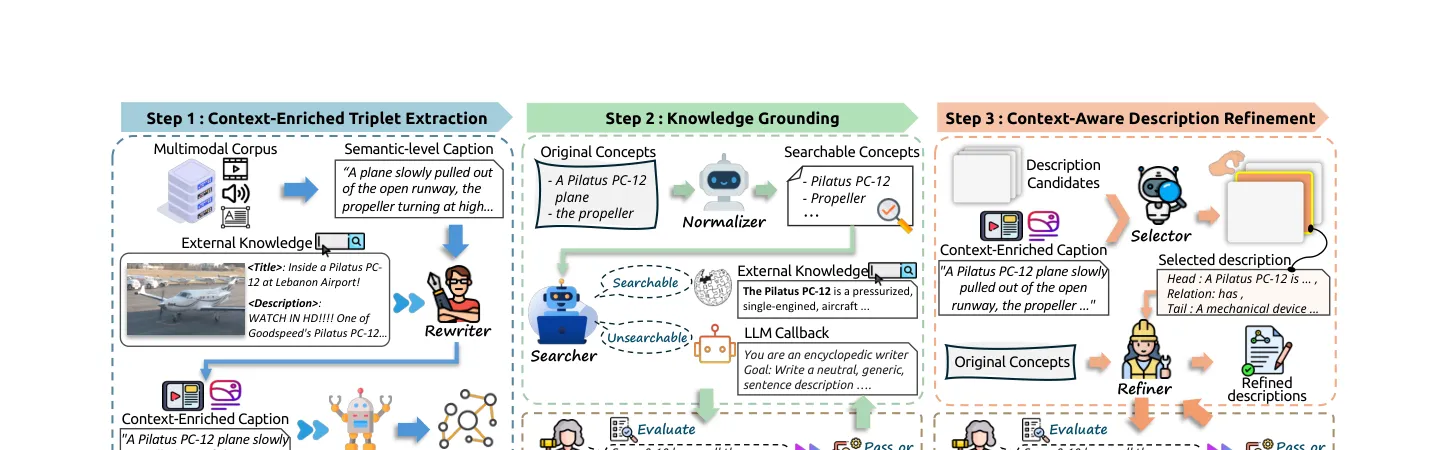
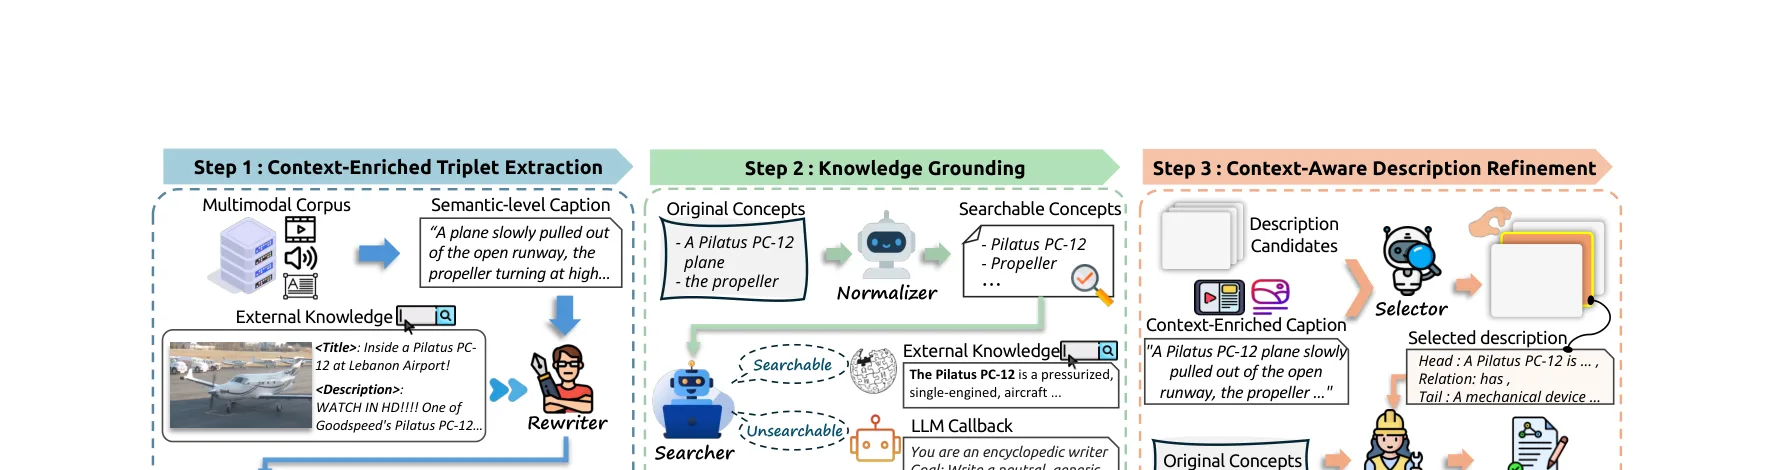
Fix M3KG-RAG note: re-crop figures, remove text-only fig4, update hero

diff --git a/notes-data.js b/notes-data.js
@@ -16,7 +16,7 @@ const NOTES = [
       "MLLM"
     ],
     "summary": "M3KG-RAG 构建多跳多模态知识图谱（M3KG），通过模态级检索（Modality-Wise Retrieval）消除跨模态 embedding gap，再经 GRASP（Grounded Retrieval And Selective Pruning）利用视觉/音频 grounding 模型和 LLM filter 逐级剪枝，仅保留与 query 相关且对回答有用的子图，在 Audio/Video/Audio-Visual QA 三个 benchmark 上全面超越现有 MMKG-RAG 方法。",
-    "hero": "assets/papers/m3kg-rag/fig3_framework.webp",
+    "hero": "assets/papers/m3kg-rag/fig2_pipeline.webp",
     "content": "## 一句话总结\nM3KG-RAG 的核心思路是：**先用多 agent 管线从多模态语料中构建多跳知识图谱（M3KG），然后在检索阶段按 query 的模态做同模态 nearest-neighbor search 消除 modality gap，最后用 GRASP 通过视觉/音频 grounding + LLM filter 三重剪枝，只留下 query-aligned 且 answer-supporting 的子图送入 MLLM**。在 GPT-4o 上也能带来显著提升，说明即使模型已有丰富内置知识，外部多跳结构化证据仍然有不可替代的价值。\n\n<div class=\"metric-grid\">\n  <div class=\"metric\"><strong>60.77 M.J.</strong><span>Qwen2.5-Omni + M3KG-RAG 在 AudioCaps-QA 上的得分，比 VAT-KG 高 9.5 分</span></div>\n  <div class=\"metric\"><strong>44.67 M.J.</strong><span>在 VALOR Audio-Visual QA 上的得分，比最强 baseline VAT-KG 高 9.2 分</span></div>\n  <div class=\"metric\"><strong>~7s/query</strong><span>完整 GRASP 管线的平均推理延迟（含 GDino + TAG + LLM filter）</span></div>\n  <div class=\"metric\"><strong>~40 GB VRAM</strong><span>完整系统 GPU 显存占用（H100 单卡可运行）</span></div>\n</div>\n\n## 论文信息\n- **标题**：M3KG-RAG: Multi-hop Multimodal Knowledge Graph-enhanced Retrieval-Augmented Generation\n- **作者**：Hyeongcheol Park, Jiyoung Seo, Jaewon Mun, Hogun Park, Wonmin Byeon, Sung June Kim, Hyeonsoo Im, JeungSub Lee, Sangpil Kim\n- **机构**：Korea University, Sungkyunkwan University, NVIDIA Research, Hanwha Systems\n- **版本**：arXiv 2512.20136 (Dec 2025, v3 Apr 2026)\n- **链接**：[arXiv](https://arxiv.org/abs/2512.20136) · [PDF](https://arxiv.org/pdf/2512.20136) · [项目主页](https://kuai-lab.github.io/cvpr2026m3kgrag/)\n\n## 背景：为什么现有多模态 RAG 在音视频场景下效果有限？\n\n多模态 RAG 将 MLLM 与外部知识源连接，但在 **audio-visual** 场景下面临两个核心瓶颈：\n\n1. **模态覆盖与多跳连通性不足**：现有 MMKG（如 VTKG、M2ConceptBase）主要覆盖 image-text，对 audio-visual 的时序和因果推理支持有限。VAT-KG 虽然纳入了 audio-visual 流，但构建的是 **concept-level 单跳图**，难以捕捉跨模态的时序依赖关系。\n\n2. **共享 embedding 空间的 modality gap**：多模态编码器（如 InternVL2、CLAP）的共享 embedding 空间中，不同模态之间的距离校准不一致。用 video query 直接搜索 text embedding 索引，或用 audio query 搜索 visual items，往往会检索到 off-topic 的邻居。**similarity-only 检索无法过滤掉与问题无关的冗余知识**。\n\n<figure class=\"figure\">\n  <img src=\"assets/papers/m3kg-rag/fig1_comparison.webp\" alt=\"M3KG-RAG 与现有方法对比\" loading=\"lazy\" />\n  <figcaption>图 1：(a) 共享 embedding 空间搜索与 audio-visual query 不对齐，检索到错误证据；(b) 单跳图提供 noisy、fragmentary 的上下文，无法改善回答；(c) M3KG-RAG 通过模态级多跳检索获取 answer-supporting 的上下文，产出忠实回答。</figcaption>\n</figure>\n\n## 方法：M3KG-RAG 如何实现多跳多模态知识图谱增强？\n\n### 1. M3KG 构建：多 Agent 管线\n\nM3KG 的构建由一个轻量级多 agent 管线完成，包含 7 种专用 LLM agent（rewriter、extractor、normalizer、searcher、selector、refiner、inspector），全部基于 Qwen3-8B 实现。管线分三步：\n\n**Step 1: Context-Enriched Triplet Extraction**\n- **Rewriter** 将语义泛化的原始 caption 重写为 knowledge-intensive caption，融入 YouTube title/description 等外部知识。\n- **Extractor** 从重写后的 caption 中抽取结构化三元组 \\((h, r, t)\\)。由于 caption 已经是 knowledge-intensive 的，抽取的三元组往往包含长尾实体和非常见概念。\n\n**Step 2: Knowledge Grounding**\n- **Normalizer** 将实体标准化为可搜索的 canonical concept（去掉修饰词、统一为单数名词短语）。\n- **Searcher** 查询 Wikipedia/Wiktionary 获取候选描述；对查不到的实体，调用 LLM callback 生成描述。\n\n**Step 3: Context-Aware Description Refinement**\n- **Selector** 从多个候选描述中选择最契合当前上下文语境的描述。\n- **Refiner** 将选中的描述从 canonical concept 适配回原始实体的表述方式。\n\n**Self-Reflection Loop**：Inspector agent 对每个描述打分（0-10），低于 7 分的退回重新生成，最多 3 次迭代，仍不达标的丢弃。\n\n最终构建的 M3KG 为：\n\\[\nG = \\{E, R, \\mathcal{T}, \\hat{D}, A, V, L\\}\n\\]\n其中每个三元组都至少链接到一个 audio 或 visual item，保证全图覆盖性（full graph coverage）。\n\n<figure class=\"figure\">\n  <img src=\"assets/papers/m3kg-rag/fig2_pipeline.webp\" alt=\"M3KG 构建管线\" loading=\"lazy\" />\n  <figcaption>图 2：M3KG 构建管线概览。三步流程 + Self-Reflection Loop，从多模态语料中构建包含 context-enriched triplet 和 refined description 的多跳知识图谱。</figcaption>\n</figure>\n\n### 2. Modality-Wise Retrieval：消除 Modality Gap\n\n核心思想：**只在 query 的同模态空间内做 nearest-neighbor search**，避免跨模态距离校准不准导致的 off-topic 检索。\n\n- 用模态基础模型（InternVL2 处理 video，CLAP 处理 audio）计算 query embedding。\n- 在 M3KG 的 audio/visual items 上构建 FAISS 索引，用 L2 距离检索 top-\\(k\\) 最近邻。\n- 通过距离阈值 \\(\\tau\\) 过滤掉过远的候选项。\n- 将选中的 items 通过链接 \\(L\\) 提升为对应的三元组子图 \\(G_{\\text{init}}\\)。\n\n### 3. GRASP：Grounded Retrieval And Selective Pruning\n\nGRASP 是论文的核心检索贡献，分两个阶段逐步剪枝：\n\n**阶段一：Multimodal Grounded Retrieval**\n\n利用 off-the-shelf 多模态 grounding 模型验证三元组中的实体是否真的出现在 query 的 audio/visual 流中：\n\n- **Visual Grounding**：用 GroundingDINO 在 query video 的 4 帧均匀采样上做检测，取最大置信度作为视觉存在分数：\n\\[\ns_v(e | q_v) = \\max_{f \\in F} \\Phi_v(e; f)\n\\]\n对三元组的 head 和 tail 实体分数求和，低于阈值 \\(\\eta_v\\) 的剪掉。\n\n- **Audio Grounding**：用 TAG（Text-to-Audio Grounding）模型，将三元组转为自然语言句子，测量其在 query audio 中的 grounding 强度：\n\\[\ns_a(t | q_a) = \\Phi_a(\\sigma(t); q_a)\n\\]\n低于阈值 \\(\\eta_a\\) 的剪掉。当 audio 和 visual 同时可用时，融合分数并应用阈值 \\(\\eta_{av}\\)。\n\n**阶段二：LLM-based Selective Pruning**\n\n轻量级 LLM（Qwen3-8B）对 grounded subgraph 中的三元组做 binary keep-or-drop 决策，采用 conservative 策略（uncertain 时倾向保留），去除对回答无用的知识。\n\n<figure class=\"figure\">\n  <img src=\"assets/papers/m3kg-rag/fig3_framework.webp\" alt=\"多模态 RAG 框架\" loading=\"lazy\" />\n  <figcaption>图 3：多模态 RAG 框架。(a) Modality-Wise Retrieval 在同模态空间内检索多跳三元组；(b) GRASP 通过 visual/audio grounding 验证实体存在性，再用 LLM filter 剪除无用知识，最终子图送入 MLLM。</figcaption>\n</figure>\n\n### 4. Graph-Augmented Generation\n\n最终检索到的子图 \\(G_{\\text{GRASP}}\\) 与多模态 query 拼接后送入 MLLM。对每个三元组 \\((h, r, t)\\)，包含关系 \\(r\\) 以及 head/tail 的 refined descriptions \\(\\langle h, d_h \\rangle\\) 和 \\(\\langle t, d_t \\rangle\\)：\n\n\\[\np_{\\text{aug}} = q \\;\\|\\; \\left( \\bigcup_{(h,r,t) \\in G_{\\text{GRASP}}} \\langle h, d_h \\rangle \\xrightarrow{r} \\langle t, d_t \\rangle \\right)\n\\]\n\n## 数据与评测\n\n**评测基准**：\n- **Audio QA**：AudioCaps-QA（基于 AudioSet 的 10 秒音频片段 + 人工标注 QA）\n- **Video QA**：VideoChatGPT benchmark（基于 ActivityNet 视频）\n- **Audio-Visual QA**：VALOR（需要同步 audio-visual 联合推理）\n\n**Base MLLMs**：VideoLLaMA2、Qwen2.5-Omni（开源）、GPT-4o（商业）\n\n**Baseline**：None（无外部知识）、Wikidata + naïve RAG、VTKG（image-text MMKG）、M2ConceptBase、VAT-KG（audio-visual MMKG）\n\n**M3KG 构建**：使用各 benchmark 的 training split 构建（AudioCaps + ActivityNet + VALOR-32K），不访问 QA 标注。\n\n**评估指标**：\n- **Model-as-Judge (M.J.)**：LLM judge 对回答打 0-5 分（映射到 0-100）\n- **Reference-Aware Win-Rate**：提供参考答案的 pairwise 比较，评估 Comprehensiveness / Diversity / Empowerment / Overall\n\n## 实验结果\n\n### 主实验：全 benchmark 对比\n\n<div class=\"table-wrap\">\n<table>\n<thead>\n<tr><th>MLLM</th><th>Method</th><th>AudioCaps-QA</th><th>VCGPT</th><th>VALOR</th></tr>\n</thead>\n<tbody>\n<tr><td rowspan=\"6\"><strong>VideoLLaMA2</strong></td><td>None</td><td>43.13</td><td>39.09</td><td>25.66</td></tr>\n<tr><td>Wikidata</td><td>43.58</td><td>38.58</td><td>26.43</td></tr>\n<tr><td>VTKG</td><td>43.02</td><td>38.88</td><td>25.92</td></tr>\n<tr><td>M2ConceptBase</td><td>42.19</td><td>39.31</td><td>25.93</td></tr>\n<tr><td>VAT-KG</td><td>44.60</td><td>39.42</td><td>28.30</td></tr>\n<tr><td><strong>M3KG-RAG</strong></td><td><strong>53.23</strong></td><td><strong>39.92</strong></td><td><strong>29.25</strong></td></tr>\n<tr><td rowspan=\"6\"><strong>Qwen2.5-Omni</strong></td><td>None</td><td>49.00</td><td>42.21</td><td>32.42</td></tr>\n<tr><td>Wikidata</td><td>49.78</td><td>40.82</td><td>30.28</td></tr>\n<tr><td>VTKG</td><td>48.95</td><td>42.96</td><td>32.70</td></tr>\n<tr><td>M2ConceptBase</td><td>49.78</td><td>42.78</td><td>32.31</td></tr>\n<tr><td>VAT-KG</td><td>51.30</td><td>43.50</td><td>35.44</td></tr>\n<tr><td><strong>M3KG-RAG</strong></td><td><strong>60.77</strong></td><td><strong>44.35</strong></td><td><strong>44.67</strong></td></tr>\n</tbody>\n</table>\n</div>\n\n**关键发现**：\n- **Audio QA 提升最显著**：Qwen2.5-Omni + M3KG-RAG 在 AudioCaps-QA 上比 VAT-KG 高 9.47 分，说明多跳 audio 知识对音频理解至关重要。\n- **Audio-Visual QA 差距最大**：VALOR 上比 VAT-KG 高 9.23 分（44.67 vs 35.44），需要联合 audio-visual 推理时，多跳证据的价值最大。\n- **Video QA 提升相对温和**：VCGPT 上仅提升 0.85 分，可能因为 video-only 任务的知识需求相对简单。\n- **GPT-4o 也受益**：即使商业模型已有丰富内置知识，M3KG-RAG 仍能在所有 benchmark 上带来一致提升。\n\n### GPT-4o 实验\n\n<div class=\"table-wrap\">\n<table>\n<thead>\n<tr><th>Method</th><th>AudioCaps-QA</th><th>VCGPT</th><th>VALOR</th></tr>\n</thead>\n<tbody>\n<tr><td>GPT-4o (None)</td><td>56.74</td><td>49.68</td><td>46.02</td></tr>\n<tr><td>GPT-4o + VAT-KG</td><td>57.70</td><td>51.49</td><td>55.86</td></tr>\n<tr><td><strong>GPT-4o + M3KG-RAG</strong></td><td><strong>59.17</strong></td><td><strong>53.05</strong></td><td><strong>56.53</strong></td></tr>\n</tbody>\n</table>\n</div>\n\n## Ablation：哪些设计最关键？\n\n### Modality-Wise Retrieval vs. GRASP\n\n<div class=\"table-wrap\">\n<table>\n<thead>\n<tr><th>Modality-Wise Retrieval</th><th>GRASP</th><th>M.J. (VALOR)</th></tr>\n</thead>\n<tbody>\n<tr><td>✗</td><td>✗</td><td>36.62</td></tr>\n<tr><td>✓</td><td>✗</td><td>40.91 (+4.29)</td></tr>\n<tr><td>✗</td><td>✓</td><td>36.96 (+0.34)</td></tr>\n<tr><td>✓</td><td>✓</td><td><strong>44.67 (+8.05)</strong></td></tr>\n</tbody>\n</table>\n</div>\n\n**核心结论**：两个组件高度互补——Modality-Wise Retrieval 提供模态对齐的候选子图，GRASP 在此基础上做细粒度剪枝。**单独使用 GRASP 几乎无效**（仅 +0.34），因为如果初始检索的子图本身就与 audio-visual query 不对齐（shared embedding space 的 modality gap），再怎么剪枝也无法挽救。\n\n### GRASP 组件逐步消融\n\n<div class=\"table-wrap\">\n<table>\n<thead>\n<tr><th>GRASP 组件</th><th>VRAM (GB)</th><th>Avg time/query (s)</th><th>M.J.</th></tr>\n</thead>\n<tbody>\n<tr><td>None</td><td>23.0</td><td>4.30</td><td>40.91</td></tr>\n<tr><td>+ GDino</td><td>23.7</td><td>5.75</td><td>41.35</td></tr>\n<tr><td>+ TAG</td><td>23.6</td><td>4.48</td><td>41.70</td></tr>\n<tr><td>+ GDino + TAG</td><td>24.2</td><td>6.02</td><td>42.96</td></tr>\n<tr><td><strong>+ GDino + TAG + LLM Filter</strong></td><td><strong>39.8</strong></td><td><strong>7.02</strong></td><td><strong>44.87</strong></td></tr>\n</tbody>\n</table>\n</div>\n\n每个 grounding 模块独立贡献约 0.4-0.8 分，组合后达到 42.96（audio 和 visual grounding 互补）。加上 LLM filter 后再提升 ~2 分，说明**语义级剪枝**（判断知识是否对回答有用）在 grounding 之上仍有显著价值。\n\n## 我的理解与启发\n\n1. **Modality gap 是多模态 RAG 中被低估的瓶颈**。论文的核心洞察之一是：与其在统一 embedding 空间里硬做跨模态检索，不如按 query 的模态分别在同模态空间内搜索。这个思路简单但有效，代价是需要在 MMKG 中显式存储 audio/visual items 及其 embedding。\n\n2. **多跳 KG 的价值在 audio-visual 联合推理时最突出**。从 ablation 看，VALOR（需要同时理解音频和视觉）上的提升远大于纯 Video QA。这说明当任务需要跨模态因果推理时，结构化的多跳证据链比碎片化的单跳知识更有用。\n\n3. **GRASP 的 grounding 思路值得借鉴**。用 GroundingDINO 和 TAG 这类专用 grounding 模型来验证「检索到的知识是否真的存在于 query 中」，是一个很好的 filtering 策略。这比单纯靠 similarity score 或 LLM 判断更可靠，因为 grounding 模型直接在像素/波形层面做验证。\n\n4. **8B LLM 作为 backbone 的 multi-agent 管线很实用**。整个 KG 构建管线都基于 Qwen3-8B，不需要大模型，降低了构建成本。Self-Reflection Loop 的 Inspector 设计保证了图质量。\n\n5. **即使 GPT-4o 级别的模型也能从外部结构化知识中受益**。这暗示了当前商业 MLLM 在 audio-visual 领域的知识仍有盲区，多跳 KG 提供了一种可解释、可更新的知识注入方式。\n\n## 局限与待观察点\n\n- **M3KG 的知识覆盖受限于构建语料**：长尾实体、罕见关系或特定领域的知识可能未被覆盖。论文使用 benchmark 的 training split 构建，实际应用需要更大规模的语料。\n- **检索阈值需要按 benchmark 单独调参**：\\(\\tau\\) 和 \\(\\eta\\) 在不同 benchmark 上差异很大（AudioCaps: \\(\\tau=3.0, \\eta_a=0.5\\)；VCGPT: \\(\\tau=0.15, \\eta_v=1.5\\)），缺乏自适应机制。\n- **Grounding 模型的领域迁移性**：当 GroundingDINO/TAG 的训练域与 query 分布不匹配时，grounding 精度下降会影响 GRASP 效果。\n- **端到端延迟**：完整管线约 7s/query + KG 构建的前置开销，实时性场景可能受限。\n- **缺乏对 text-only KG 的公平对比**：论文主要与 MMKG baseline 比较，但与 GraphRAG、LightRAG 等 text-only graph RAG 的对比不够充分。\n\n## 结论\n\nM3KG-RAG 是一个端到端的多模态 RAG 框架，核心贡献在于：(1) 用多 agent 管线构建多跳 MMKG，使每个三元组都有 audio-visual grounding；(2) Modality-Wise Retrieval 通过同模态检索消除 modality gap；(3) GRASP 通过 grounding + LLM filter 双重剪枝，确保送入 MLLM 的知识既与 query 相关又对回答有用。在三个不同类型的多模态 QA benchmark 上全面超越现有方法，包括对 GPT-4o 的提升，展示了多跳结构化知识在多模态推理中的不可替代性。"
   },
   {

diff --git a/notes/m3kg-rag-multi-hop-multimodal-kg-rag.md b/notes/m3kg-rag-multi-hop-multimodal-kg-rag.md
@@ -7,7 +7,7 @@ order: 10
 readTime: "18 min"
 tags: ["Multimodal RAG","Knowledge Graph","Multi-hop Retrieval","GRASP","Audio-Visual Reasoning","Multi-Agent","MLLM"]
 summary: "M3KG-RAG 构建多跳多模态知识图谱（M3KG），通过模态级检索（Modality-Wise Retrieval）消除跨模态 embedding gap，再经 GRASP（Grounded Retrieval And Selective Pruning）利用视觉/音频 grounding 模型和 LLM filter 逐级剪枝，仅保留与 query 相关且对回答有用的子图，在 Audio/Video/Audio-Visual QA 三个 benchmark 上全面超越现有 MMKG-RAG 方法。"
-hero: "assets/papers/m3kg-rag/fig3_framework.webp"
+hero: "assets/papers/m3kg-rag/fig2_pipeline.webp"
 ---
 
 ## 一句话总结
